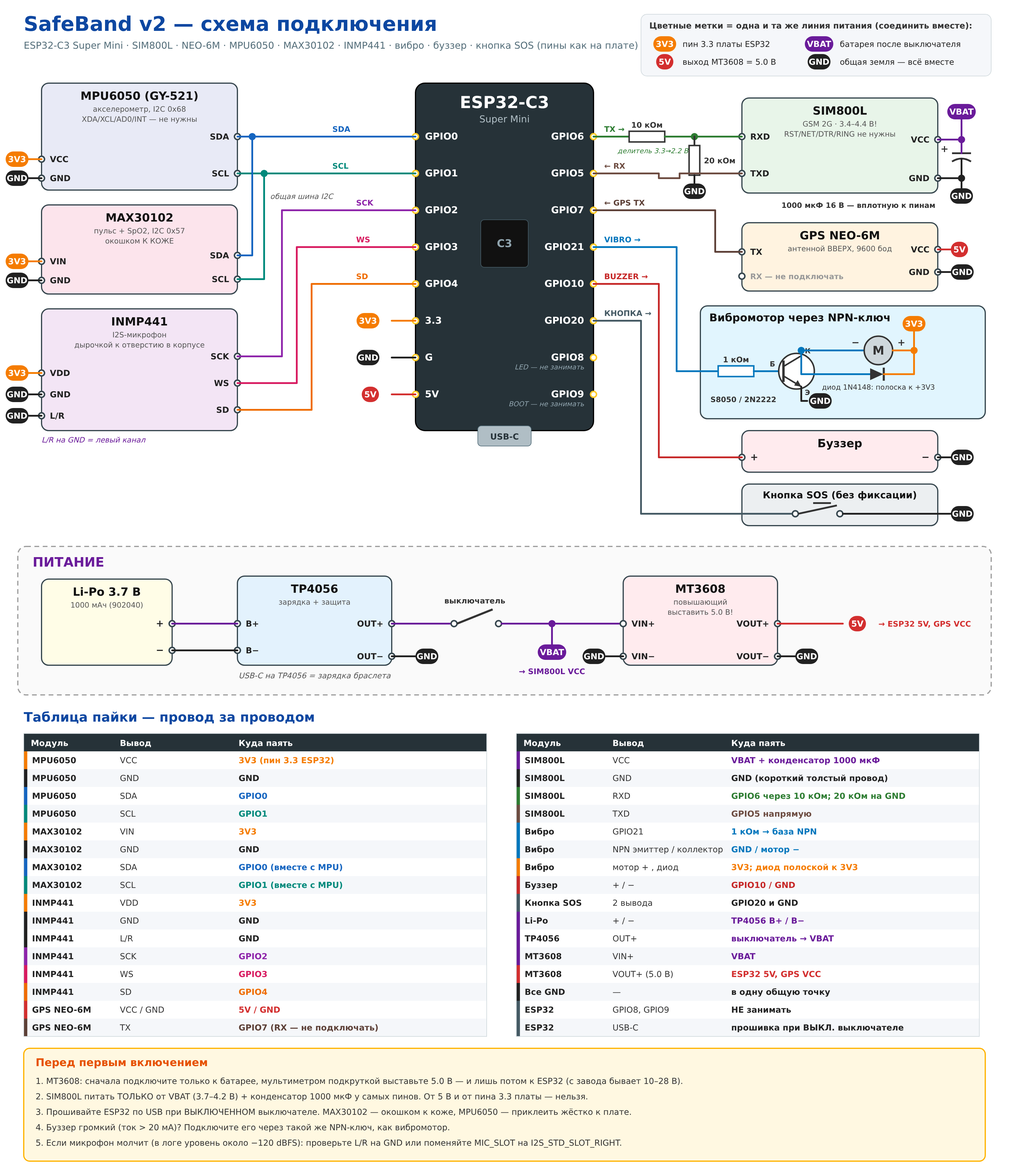
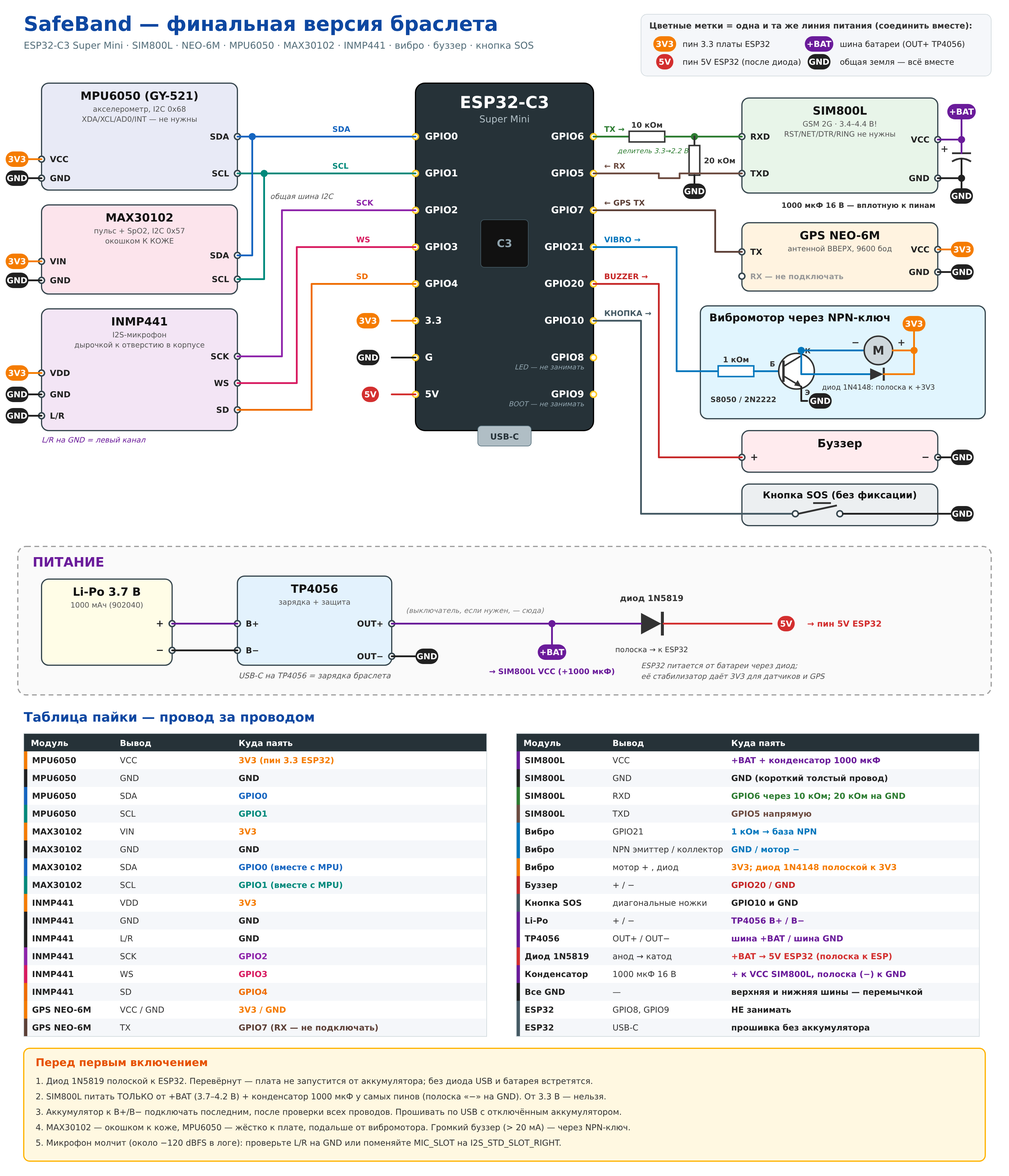
Final bracelet wiring based on the built board
Diode-fed ESP32 from battery bus, GPS on 3V3, SOS button GPIO10, buzzer GPIO20;
MAX30102, INMP441 and vibro added on free pins. Update v2 firmware pins.

Claude-Session: https://claude.ai/code/session_01UdGDUG9osoqGUnrVst4ZVM

diff --git a/firmware/docs/make_wiring.py b/firmware/docs/make_wiring.py
@@ -62,8 +62,8 @@ def resistor_v(x, y, h, label):
 # ----------------------------------------------------------------------------
 add(f'<svg xmlns="http://www.w3.org/2000/svg" width="{W}" height="{H}" viewBox="0 0 {W} {H}">')
 add(f'<rect width="{W}" height="{H}" fill="#ffffff"/>')
-text(40, 52, "SafeBand v2 — схема подключения", 34, "#0d47a1", "bold")
-text(40, 82, "ESP32-C3 Super Mini · SIM800L · NEO-6M · MPU6050 · MAX30102 · INMP441 · вибро · буззер · кнопка SOS  (пины как на плате)",
+text(40, 52, "SafeBand — финальная версия браслета", 34, "#0d47a1", "bold")
+text(40, 82, "ESP32-C3 Super Mini · SIM800L · NEO-6M · MPU6050 · MAX30102 · INMP441 · вибро · буззер · кнопка SOS",
      16, "#546e7a")
 
 # легенда питания
@@ -71,8 +71,8 @@ lx = 1080
 add(f'<rect x="{lx}" y="24" width="590" height="104" rx="10" fill="#f5f7fa" stroke="#cfd8dc"/>')
 text(lx + 14, 48, "Цветные метки = одна и та же линия питания (соединить вместе):", 14, "#333", "bold")
 badge(lx + 40, 74, "3V3", C["3v3"]); text(lx + 70, 79, "пин 3.3 платы ESP32", 13.5)
-badge(lx + 40, 104, "5V", C["5v"]); text(lx + 70, 109, "выход MT3608 = 5.0 В", 13.5)
-badge(lx + 300, 74, "VBAT", C["vbat"]); text(lx + 335, 79, "батарея после выключателя", 13.5)
+badge(lx + 40, 104, "5V", C["5v"]); text(lx + 70, 109, "пин 5V ESP32 (после диода)", 13.5)
+badge(lx + 300, 74, "+BAT", C["vbat"]); text(lx + 335, 79, "шина батареи (OUT+ TP4056)", 13.5)
 badge(lx + 300, 104, "GND", C["gnd"]); text(lx + 335, 109, "общая земля — всё вместе", 13.5)
 
 # ----------------------------- ESP32 ----------------------------------------
@@ -87,7 +87,7 @@ text(EX + EW / 2, EY + EH + 15, "USB-C", 14, "#263238", "bold", "middle")
 
 rows = [230, 292, 354, 416, 478, 540, 602, 664]
 left_pins = ["GPIO0", "GPIO1", "GPIO2", "GPIO3", "GPIO4", "3.3", "G", "5V"]
-right_pins = ["GPIO6", "GPIO5", "GPIO7", "GPIO21", "GPIO10", "GPIO20", "GPIO8", "GPIO9"]
+right_pins = ["GPIO6", "GPIO5", "GPIO7", "GPIO21", "GPIO20", "GPIO10", "GPIO8", "GPIO9"]
 for y, n in zip(rows, left_pins):
     pin(EX, y, "#ffca28"); text(EX + 16, y + 5, n, 16, "#fff", "bold")
 for y, n in zip(rows, right_pins):
@@ -152,7 +152,7 @@ text(1018, 222, "TX →", 13, C["tx"], "bold"); text(1018, 284, "← RX", 13, C[
 # питание SIM800L + конденсатор
 pin(RX_ + RW, 235); text(RX_ + RW - 14, 240, "VCC", 14, "#222", "bold", "end")
 pin(RX_ + RW, 300); text(RX_ + RW - 14, 305, "GND", 14, "#222", "bold", "end")
-wire([(RX_ + RW, 235), (RX_ + RW + 40, 235), (RX_ + RW + 40, 200)], C["vbat"]); badge(RX_ + RW + 40, 188, "VBAT", C["vbat"])
+wire([(RX_ + RW, 235), (RX_ + RW + 40, 235), (RX_ + RW + 40, 200)], C["vbat"]); badge(RX_ + RW + 40, 188, "+BAT", C["vbat"])
 wire([(RX_ + RW, 300), (RX_ + RW + 40, 300)], C["gnd"])
 cx = RX_ + RW + 40
 add(f'<line x1="{cx - 16}" y1="258" x2="{cx + 16}" y2="258" stroke="#333" stroke-width="3"/>')
@@ -171,7 +171,7 @@ wire([(EX + EW, 354), (1205, 354), (1205, 424), (RX_, 424)], C["gps"])
 text(1018, 346, "← GPS TX", 13, C["gps"], "bold")
 pin(RX_ + RW, 420); text(RX_ + RW - 14, 425, "VCC", 14, "#222", "bold", "end")
 pin(RX_ + RW, 458); text(RX_ + RW - 14, 463, "GND", 14, "#222", "bold", "end")
-wire([(RX_ + RW, 420), (RX_ + RW + 22, 420)], C["5v"]); badge(RX_ + RW + 22, 420, "5V", C["5v"], "start")
+wire([(RX_ + RW, 420), (RX_ + RW + 22, 420)], C["3v3"]); badge(RX_ + RW + 22, 420, "3V3", C["3v3"], "start")
 wire([(RX_ + RW, 458), (RX_ + RW + 22, 458)], C["gnd"]); badge(RX_ + RW + 22, 458, "GND", C["gnd"], "start")
 
 # Вибромотор (ключ)
@@ -253,26 +253,23 @@ for y, n in [(PY + 130, "OUT+"), (PY + 185, "OUT−")]:
 wire([(290, PY + 130), (400, PY + 130)], C["vbat"]); wire([(290, PY + 175), (400, PY + 175)], C["gnd"])
 wire([(660, PY + 185), (700, PY + 185)], C["gnd"]); badge(700, PY + 185, "GND", C["gnd"], "start")
 
-# выключатель
-wire([(660, PY + 130), (760, PY + 130)], C["vbat"])
-pin(765, PY + 130)
-add(f'<line x1="{770}" y1="{PY + 130}" x2="{830}" y2="{PY + 106}" stroke="#333" stroke-width="3.5"/>')
-pin(840, PY + 130)
-text(800, PY + 96, "выключатель", 13, "#333", "bold", "middle")
-wire([(845, PY + 130), (1050, PY + 130)], C["vbat"]); dot(930, PY + 130, C["vbat"])
-wire([(930, PY + 130), (930, PY + 165)], C["vbat"]); badge(930, PY + 178, "VBAT", C["vbat"])
-text(930, PY + 215, "→ SIM800L VCC", 13, C["vbat"], "bold", "middle")
-
-box(1050, PY + 50, 260, 150, "#ffebee", "MT3608", ["повышающий", "выставить 5.0 В!"])
-for y, n in [(PY + 130, "VIN+"), (PY + 185, "VIN−")]:
-    pin(1050, y); text(1064, y + 5, n, 14, "#222", "bold")
-for y, n in [(PY + 130, "VOUT+"), (PY + 185, "VOUT−")]:
-    pin(1310, y); text(1296, y + 5, n, 14, "#222", "bold", "end")
-wire([(1050, PY + 185), (1020, PY + 185)], C["gnd"]); badge(1020, PY + 185, "GND", C["gnd"], "end")
-wire([(1310, PY + 185), (1340, PY + 185)], C["gnd"]); badge(1340, PY + 185, "GND", C["gnd"], "start")
-wire([(1310, PY + 130), (1420, PY + 130)], C["5v"]); badge(1430, PY + 130, "5V", C["5v"], "start")
-text(1480, PY + 135, "→ ESP32 5V, GPS VCC", 13, C["5v"], "bold")
-
+# шина +BAT
+wire([(660, PY + 130), (1050, PY + 130)], C["vbat"])
+text(800, PY + 112, "(выключатель, если нужен, — сюда)", 12, "#777", anchor="middle", italic=True)
+dot(930, PY + 130, C["vbat"])
+wire([(930, PY + 130), (930, PY + 165)], C["vbat"]); badge(930, PY + 178, "+BAT", C["vbat"])
+text(930, PY + 215, "→ SIM800L VCC (+1000 мкФ)", 13, C["vbat"], "bold", "middle")
+# диод 1N5819: анод к +BAT, катод (полоска) к ESP
+dx0 = 1080
+add(f'<polygon points="{dx0},{PY + 112} {dx0},{PY + 148} {dx0 + 34},{PY + 130}" fill="#333"/>')
+add(f'<line x1="{dx0 + 36}" y1="{PY + 110}" x2="{dx0 + 36}" y2="{PY + 150}" stroke="#333" stroke-width="5"/>')
+wire([(1050, PY + 130), (dx0, PY + 130)], C["vbat"])
+text(dx0 + 18, PY + 92, "диод 1N5819", 14, "#333", "bold", "middle")
+text(dx0 + 18, PY + 178, "полоска → к ESP32", 12.5, "#333", anchor="middle")
+wire([(dx0 + 38, PY + 130), (1300, PY + 130)], C["5v"]); badge(1310, PY + 130, "5V", C["5v"], "start")
+text(1360, PY + 135, "→ пин 5V ESP32", 14, C["5v"], "bold")
+text(1080, PY + 205, "ESP32 питается от батареи через диод;", 12.5, "#555", italic=True)
+text(1080, PY + 223, "её стабилизатор даёт 3V3 для датчиков и GPS", 12.5, "#555", italic=True)
 text(530, PY + 222, "USB-C на TP4056 = зарядка браслета", 13, "#555", anchor="middle", italic=True)
 
 # ----------------------------- ТАБЛИЦА ---------------------------------------
@@ -293,26 +290,26 @@ rows_l = [
     ("INMP441", "SCK", "GPIO2", "sck"),
     ("INMP441", "WS", "GPIO3", "ws"),
     ("INMP441", "SD", "GPIO4", "sd"),
-    ("GPS NEO-6M", "VCC / GND", "5V / GND", "5v"),
+    ("GPS NEO-6M", "VCC / GND", "3V3 / GND", "3v3"),
     ("GPS NEO-6M", "TX", "GPIO7   (RX — не подключать)", "gps"),
 ]
 rows_r = [
-    ("SIM800L", "VCC", "VBAT + конденсатор 1000 мкФ", "vbat"),
+    ("SIM800L", "VCC", "+BAT + конденсатор 1000 мкФ", "vbat"),
     ("SIM800L", "GND", "GND (короткий толстый провод)", "gnd"),
     ("SIM800L", "RXD", "GPIO6 через 10 кОм; 20 кОм на GND", "tx"),
     ("SIM800L", "TXD", "GPIO5 напрямую", "rx"),
     ("Вибро", "GPIO21", "1 кОм → база NPN", "vib"),
     ("Вибро", "NPN эмиттер / коллектор", "GND / мотор −", "vib"),
-    ("Вибро", "мотор + , диод", "3V3; диод полоской к 3V3", "3v3"),
-    ("Буззер", "+ / −", "GPIO10 / GND", "buz"),
-    ("Кнопка SOS", "2 вывода", "GPIO20 и GND", "btn"),
+    ("Вибро", "мотор + , диод", "3V3; диод 1N4148 полоской к 3V3", "3v3"),
+    ("Буззер", "+ / −", "GPIO20 / GND", "buz"),
+    ("Кнопка SOS", "диагональные ножки", "GPIO10 и GND", "btn"),
     ("Li-Po", "+ / −", "TP4056 B+ / B−", "vbat"),
-    ("TP4056", "OUT+", "выключатель → VBAT", "vbat"),
-    ("MT3608", "VIN+", "VBAT", "vbat"),
-    ("MT3608", "VOUT+ (5.0 В)", "ESP32 5V, GPS VCC", "5v"),
-    ("Все GND", "—", "в одну общую точку", "gnd"),
+    ("TP4056", "OUT+ / OUT−", "шина +BAT / шина GND", "vbat"),
+    ("Диод 1N5819", "анод → катод", "+BAT → 5V ESP32 (полоска к ESP)", "5v"),
+    ("Конденсатор", "1000 мкФ 16 В", "+ к VCC SIM800L, полоска (−) к GND", "vbat"),
+    ("Все GND", "—", "верхняя и нижняя шины — перемычкой", "gnd"),
     ("ESP32", "GPIO8, GPIO9", "НЕ занимать", "btn"),
-    ("ESP32", "USB-C", "прошивка при ВЫКЛ. выключателе", "btn"),
+    ("ESP32", "USB-C", "прошивка без аккумулятора", "btn"),
 ]
 
 
@@ -338,11 +335,11 @@ NY = TY + 560
 add(f'<rect x="40" y="{NY}" width="1620" height="190" rx="10" fill="#fff8e1" stroke="#ffb300" stroke-width="2"/>')
 text(60, NY + 30, "Перед первым включением", 18, "#e65100", "bold")
 notes = [
-    "1. MT3608: сначала подключите только к батарее, мультиметром подкруткой выставьте 5.0 В — и лишь потом к ESP32 (с завода бывает 10–28 В).",
-    "2. SIM800L питать ТОЛЬКО от VBAT (3.7–4.2 В) + конденсатор 1000 мкФ у самых пинов. От 5 В и от пина 3.3 платы — нельзя.",
-    "3. Прошивайте ESP32 по USB при ВЫКЛЮЧЕННОМ выключателе. MAX30102 — окошком к коже, MPU6050 — приклеить жёстко к плате.",
-    "4. Буззер громкий (ток > 20 мА)? Подключите его через такой же NPN-ключ, как вибромотор.",
-    "5. Если микрофон молчит (в логе уровень около −120 dBFS): проверьте L/R на GND или поменяйте MIC_SLOT на I2S_STD_SLOT_RIGHT.",
+    "1. Диод 1N5819 полоской к ESP32. Перевёрнут — плата не запустится от аккумулятора; без диода USB и батарея встретятся.",
+    "2. SIM800L питать ТОЛЬКО от +BAT (3.7–4.2 В) + конденсатор 1000 мкФ у самых пинов (полоска «−» на GND). От 3.3 В — нельзя.",
+    "3. Аккумулятор к B+/B− подключать последним, после проверки всех проводов. Прошивать по USB с отключённым аккумулятором.",
+    "4. MAX30102 — окошком к коже, MPU6050 — жёстко к плате, подальше от вибромотора. Громкий буззер (> 20 мА) — через NPN-ключ.",
+    "5. Микрофон молчит (около −120 dBFS в логе): проверьте L/R на GND или поменяйте MIC_SLOT на I2S_STD_SLOT_RIGHT.",
 ]
 for i, n in enumerate(notes):
     text(60, NY + 60 + i * 26, n, 14, "#333")

diff --git a/firmware/docs/WIRING.md b/firmware/docs/WIRING.md
@@ -1,57 +1,49 @@
-# SafeBand v2 — схема подключения (текстом)
+# SafeBand — финальная версия браслета: схема подключения (текстом)
 
-Пины соответствуют реальной пайке платы: SIM800L на GPIO5/6, GPS на GPIO7.
-Картинка: [`wiring_v2.png`](wiring_v2.png).
+За основу взята собранная плата: SIM800L на GPIO5/6, GPS на GPIO7, кнопка SOS на GPIO10, буззер на GPIO20,
+питание ESP32 от аккумулятора через диод 1N5819. К ней добавлены MAX30102, INMP441 и вибромотор
+на свободные пины. Картинка: [`wiring_v2.png`](wiring_v2.png).
 
 ## Распределение пинов ESP32-C3 Super Mini
 
-| GPIO | Что подключено | Направление |
+| GPIO | Что подключено | Статус |
 |---|---|---|
-| GPIO0 | SDA — MPU6050 + MAX30102 (общая шина I2C) | ↔ |
-| GPIO1 | SCL — MPU6050 + MAX30102 | → |
-| GPIO2 | INMP441 SCK | → |
-| GPIO3 | INMP441 WS | → |
-| GPIO4 | INMP441 SD | ← |
-| GPIO5 | SIM800L TXD (RX у ESP) | ← |
-| GPIO6 | SIM800L RXD (TX у ESP) через делитель 10к/20к | → |
-| GPIO7 | GPS NEO-6M TX | ← |
+| GPIO0 | SDA — MPU6050 + MAX30102 (общая шина I2C) | MPU уже есть, MAX30102 добавить |
+| GPIO1 | SCL — MPU6050 + MAX30102 | MPU уже есть, MAX30102 добавить |
+| GPIO2 | INMP441 SCK | **новое** |
+| GPIO3 | INMP441 WS | **новое** |
+| GPIO4 | INMP441 SD | **новое** |
+| GPIO5 | SIM800L TXD (RX у ESP) | как на плате |
+| GPIO6 | SIM800L RXD через делитель 10 кОм / 20 кОм | как на плате |
+| GPIO7 | GPS NEO-6M TX | как на плате |
 | GPIO8 | LED на плате — **не занимать** | — |
 | GPIO9 | кнопка BOOT — **не занимать** | — |
-| GPIO10 | Буззер (+) | → |
-| GPIO20 | Кнопка SOS (второй вывод на GND) | ← |
-| GPIO21 | Вибромотор: 1 кОм → база NPN | → |
-| 3.3 | питание датчиков (линия **3V3**) | выход |
-| 5V | вход от MT3608 (линия **5V**) | вход |
-| G | общая земля (**GND**) | — |
+| GPIO10 | Кнопка SOS (вторая ножка на GND) | как на плате |
+| GPIO20 | Буззер (+) | как на плате |
+| GPIO21 | Вибромотор: 1 кОм → база NPN | **новое** |
+| 3.3 | шина **+3.3V**: MPU6050, MAX30102, INMP441, GPS, вибромотор | выход |
+| 5V | от шины **+BAT** через диод 1N5819 | вход |
+| G | общая земля **GND** | — |
 
 ## Провод за проводом
 
 ```
-MPU6050 (GY-521)
+MPU6050 (GY-521)                          [уже на плате]
   VCC  -> 3V3
   GND  -> GND
   SDA  -> GPIO0
   SCL  -> GPIO1
   XDA, XCL, AD0, INT -> не подключать
 
-MAX30102
-  VIN  -> 3V3
+GPS NEO-6M                                [уже на плате]
+  VCC  -> 3V3
   GND  -> GND
-  SDA  -> GPIO0   (вместе с MPU6050)
-  SCL  -> GPIO1   (вместе с MPU6050)
-  INT  -> не подключать
+  TX   -> GPIO7
+  RX   -> не подключать
 
-INMP441
-  VDD  -> 3V3
+SIM800L                                   [уже на плате]
+  VCC  -> +BAT, конденсатор 1000 мкФ 16 В между VCC и GND (полоска «−» на GND)
   GND  -> GND
-  L/R  -> GND
-  SCK  -> GPIO2
-  WS   -> GPIO3
-  SD   -> GPIO4
-
-SIM800L
-  VCC  -> VBAT (батарея после выключателя) + конденсатор 1000 мкФ 16 В вплотную к пинам
-  GND  -> GND (короткий толстый провод)
   TXD  -> GPIO5 напрямую
   RXD  <- GPIO6 через делитель:
             GPIO6 ---[10 кОм]---+--- SIM800L RXD
@@ -59,50 +51,60 @@ SIM800L
                              [20 кОм]
                                 |
                                GND
-  RST, NET, DTR, RING -> не подключать
+  NET, RST, DTR, RING -> не подключать
 
-GPS NEO-6M
-  VCC  -> 5V
-  GND  -> GND
-  TX   -> GPIO7
-  RX   -> не подключать
-
-Вибромотор (через NPN-ключ S8050 / 2N2222)
-  GPIO21 ---[1 кОм]--- База NPN
-  Эмиттер NPN -> GND
-  Коллектор NPN -> мотор (−)
-  Мотор (+) -> 3V3
-  Диод 1N4148 параллельно мотору: полоска (катод) к 3V3, анод к коллектору
-
-Буззер
-  (+) -> GPIO10
+Буззер                                    [уже на плате]
+  (+) -> GPIO20
   (−) -> GND
-  (если буззер громкий, > 20 мА — через такой же NPN-ключ, как вибромотор)
 
-Кнопка SOS (без фиксации)
-  вывод 1 -> GPIO20
-  вывод 2 -> GND
+Кнопка SOS (без фиксации)                 [уже на плате]
+  одна ножка -> GPIO10, диагональная ножка -> GND
   (подтяжка внутренняя, резистор не нужен)
+
+MAX30102                                  [НОВОЕ]
+  VIN  -> 3V3
+  GND  -> GND
+  SDA  -> GPIO0   (к той же точке, что SDA MPU6050)
+  SCL  -> GPIO1   (к той же точке, что SCL MPU6050)
+  INT  -> не подключать
+
+INMP441                                   [НОВОЕ]
+  VDD  -> 3V3
+  GND  -> GND
+  L/R  -> GND
+  SCK  -> GPIO2
+  WS   -> GPIO3
+  SD   -> GPIO4
+
+Вибромотор через NPN-ключ S8050 / 2N2222  [НОВОЕ]
+  GPIO21 ---[1 кОм]--- База NPN
+  Эмиттер NPN   -> GND
+  Коллектор NPN -> мотор (−)
+  Мотор (+)     -> 3V3
+  Диод 1N4148 параллельно мотору: полоска (катод) к 3V3, анод к коллектору
 ```
 
 ## Питание
 
 ```
-Li-Po 3.7 В (+) -> TP4056 B+
-Li-Po 3.7 В (−) -> TP4056 B−
-TP4056 OUT+ -> выключатель -> VBAT
-VBAT -> SIM800L VCC   (+ 1000 мкФ)
-VBAT -> MT3608 VIN+
-MT3608 VOUT+ (выставить 5.0 В!) -> ESP32 5V, GPS VCC
-TP4056 OUT−, MT3608 VIN−, MT3608 VOUT− -> GND
-Все GND (батарея, TP4056, MT3608, ESP32, все модули) -> в одну общую точку
+Li-Po 3.7 В 1000 мАч (+) -> TP4056 B+
+Li-Po 3.7 В 1000 мАч (−) -> TP4056 B−
+TP4056 OUT+ -> шина +BAT
+TP4056 OUT− -> шина GND
++BAT -> SIM800L VCC (+ конденсатор 1000 мкФ)
++BAT -> диод 1N5819 -> пин 5V ESP32     (полоска диода смотрит к ESP32)
+ESP32 3.3 -> шина +3.3V (все датчики, GPS, вибромотор)
+Верхняя и нижняя шины GND -> соединить перемычкой
 USB-C на TP4056 = зарядка браслета
+(Выключатель, если нужен, — в разрыв между TP4056 OUT+ и шиной +BAT)
 ```
 
 ## Важно
 
-1. MT3608: сначала подключить только к батарее, выставить 5.0 В мультиметром, потом к ESP32.
-2. SIM800L — только от VBAT (3.7–4.2 В). От 5 В и от пина 3.3 платы — нельзя.
-3. Прошивать ESP32 по USB при **выключенном** выключателе.
-4. GPIO21 при старте платы на долю секунды дёргается (загрузчик пишет туда лог) — вибромотор этого не заметит.
-5. GPIO8 и GPIO9 не занимать: от них зависит загрузка платы.
+1. Диод 1N5819 стоит полоской к ESP32. Если его перевернуть, плата не запустится от аккумулятора. Без диода при прошивке 5 В с USB попадёт прямо на аккумулятор.
+2. SIM800L питается только от +BAT (3.7–4.2 В). От 3.3 В платы он работать не будет.
+3. Аккумулятор подключать последним, после проверки всех проводов.
+4. MAX30102 ставить окошком к коже. MPU6050 крепить жёстко к плате, подальше от вибромотора.
+5. От стабилизатора 3.3 В теперь питаются GPS, три датчика и вибромотор: в сумме около 150–200 мА, для платы это нормально. Если ESP32 перезагружается в момент вибрации, мотор лучше питать от +BAT, а не от 3V3.
+6. GPIO8 и GPIO9 не занимать: от них зависит загрузка платы.
+7. При включении платы на GPIO20 и GPIO21 на долю секунды выводится служебный лог. Буззер может коротко щёлкнуть, это нормально.

diff --git a/firmware/README.md b/firmware/README.md
@@ -5,7 +5,7 @@
 | `SafeBand_v1/` | текущая спаянная плата | ESP32-C3 Super Mini, SIM800L, NEO-6M, MPU6050 |
 | `SafeBand_v2/` | полная схема ([`docs/wiring_v2.png`](docs/wiring_v2.png)) | + MAX30102, INMP441, вибромотор, буззер, кнопка SOS |
 
-Пины в обеих прошивках одинаковые (SIM800L — GPIO5/6, GPS — GPIO7), так что v2 — это та же плата с добавленными модулями. Схема текстом: [`docs/WIRING.md`](docs/WIRING.md).
+Пины в обеих прошивках одинаковые (SIM800L — GPIO5/6, GPS — GPIO7, кнопка — GPIO10, буззер — GPIO20), так что v2 — это та же плата с добавленными модулями. Схема текстом: [`docs/WIRING.md`](docs/WIRING.md).
 
 ![Схема подключения](docs/wiring_v2.png)
 
@@ -26,7 +26,7 @@
    uint32_t REPORT_INTERVAL_MIN = 10;  // как часто слать статус
    const char *APN = "internet";       // APN вашего оператора
    ```
-5. **Выключите выключатель питания**, подключите USB-C к ESP32 и нажмите Upload.
+5. **Отключите аккумулятор (или выключатель)**, подключите USB-C к ESP32 и нажмите Upload.
    Если загрузка не начинается: зажмите BOOT, нажмите и отпустите RST, отпустите BOOT.
 6. Откройте Serial Monitor на 115200. Каждые 10 с печатается строка `[STAT]` с состоянием всех модулей.
 
@@ -138,7 +138,7 @@ export function parseSafeBandSms(body: string) {
 
 | Симптом в Serial Monitor | Что проверить |
 |---|---|
-| `[GSM] модем не отвечает` | питание SIM800L от VBAT, конденсатор, TX/RX не перепутаны, делитель на RXD |
+| `[GSM] модем не отвечает` | питание SIM800L от +BAT, конденсатор, TX/RX не перепутаны, делитель на RXD |
 | `[GSM] нет регистрации в сети` | антенна, баланс, PIN-код снят, оператор поддерживает 2G |
 | ESP32 перезагружается при отправке SMS | SIM800L просаживает питание: толще провода, ближе конденсатор, заряженная батарея |
 | `GPS=нет(0 сп.)` | под открытым небом первый фикс занимает 1–5 минут; проверьте GPS TX → GPIO7 |
